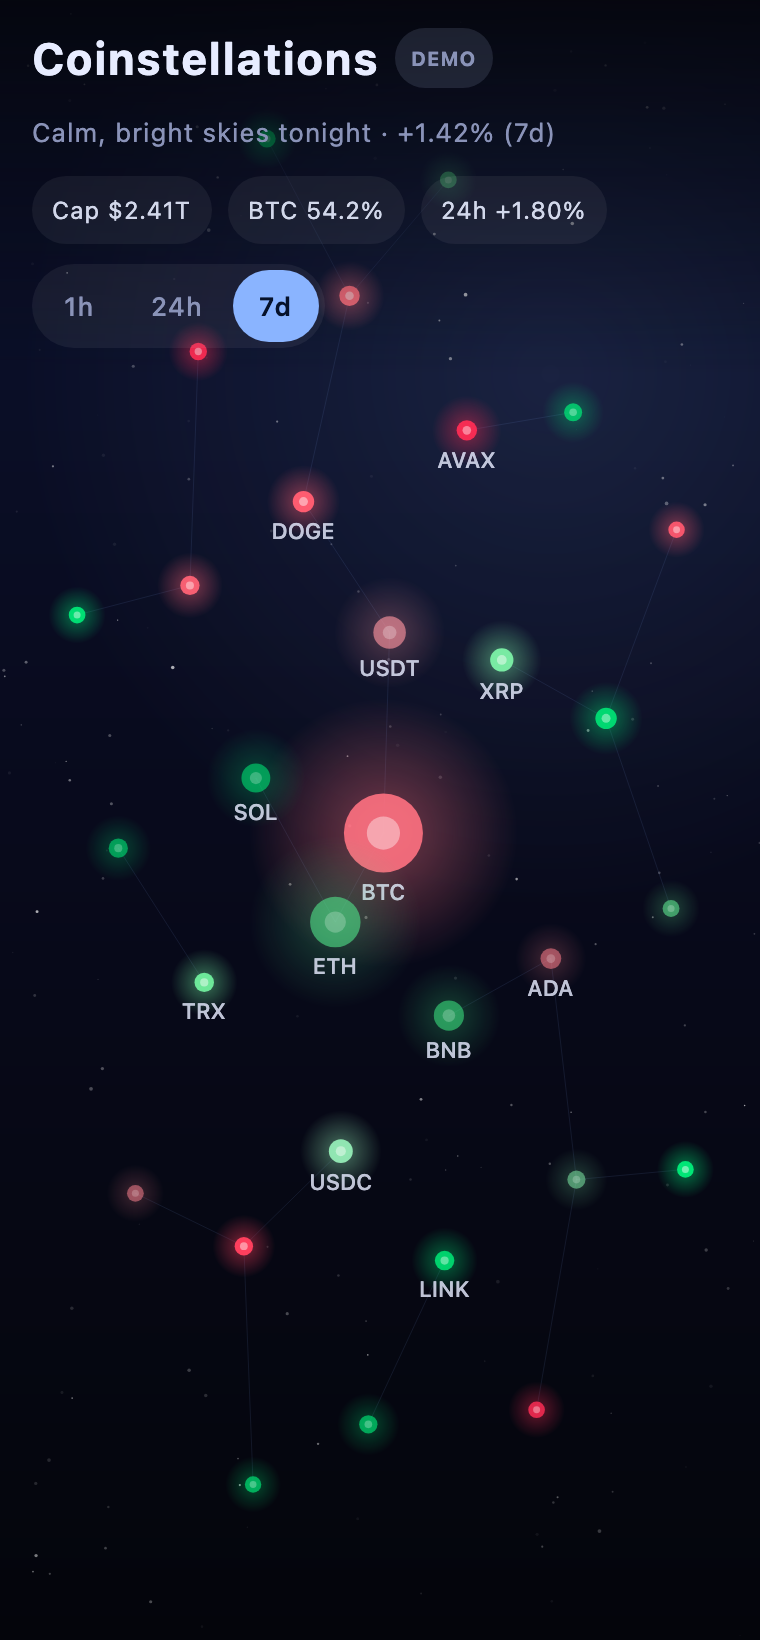
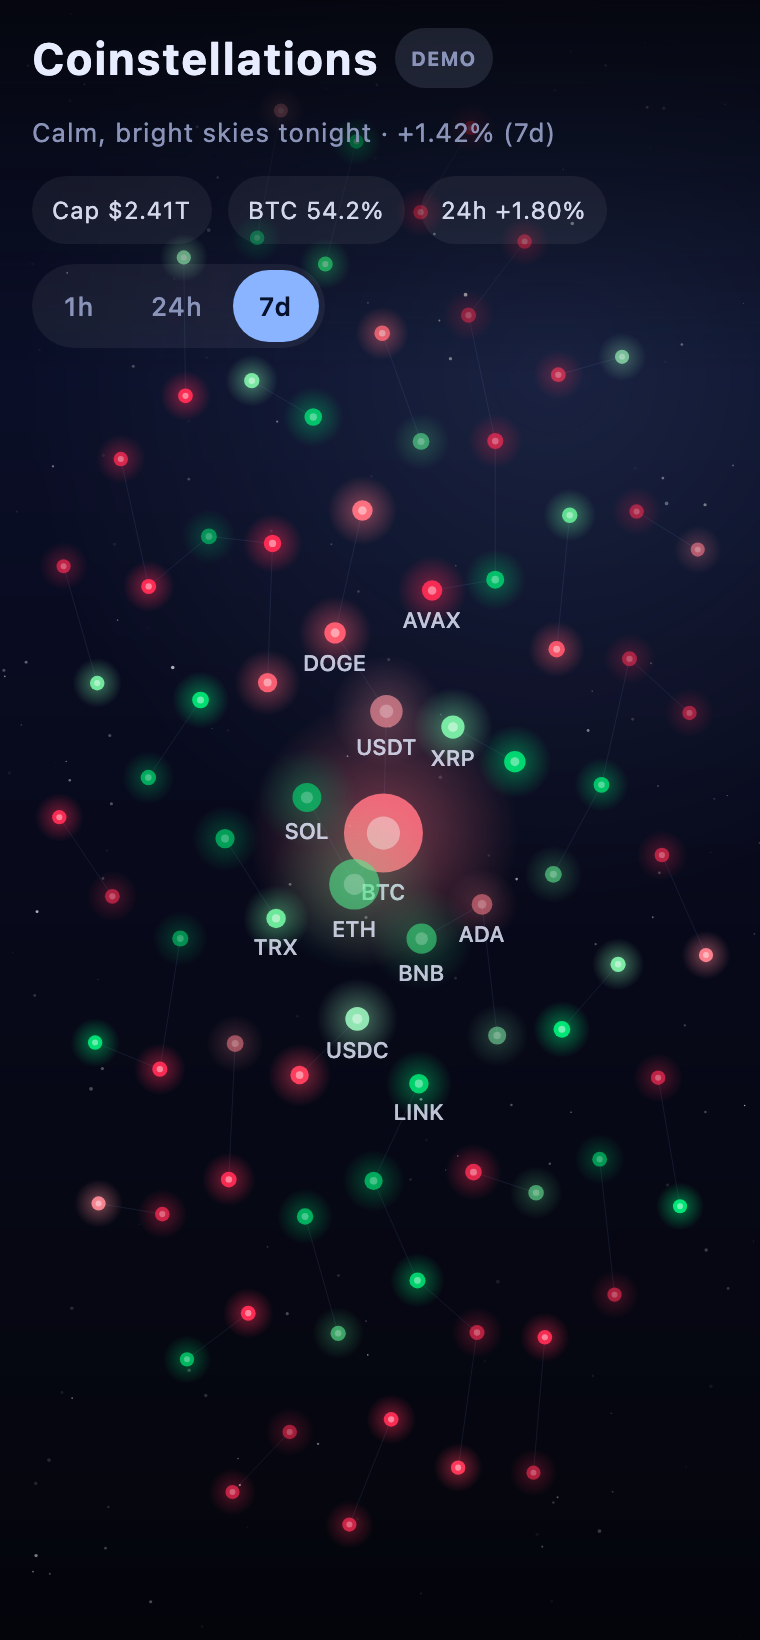
feat: denser sky — ~110 demo coins + default 100 stars
The bundled demo set was only 30 coins, capping the no-key sky at 30 stars.
Adds a recognisable generated long tail (~110 total) and raises the default
star count to 100. Regenerated README visuals.

diff --git a/composeApp/src/commonMain/kotlin/io/github/vahan16/coinstellations/data/DemoData.kt b/composeApp/src/commonMain/kotlin/io/github/vahan16/coinstellations/data/DemoData.kt
@@ -1,6 +1,7 @@
 package io.github.vahan16.coinstellations.data
 
 import kotlin.math.max
+import kotlin.math.pow
 import kotlin.random.Random
 
 /**
@@ -31,7 +32,7 @@ object DemoData {
         websiteUrl = web, twitterUrl = twitter,
     )
 
-    val coins: List<Coin> = listOf(
+    private val topCoins: List<Coin> = listOf(
         c("bitcoin", "Bitcoin", "BTC", 1, 68120.0, 1_345_000_000_000.0, 32_400_000_000.0, 19.74e6, 21e6, 0.12, 1.42, -2.10, "https://bitcoin.org", "https://twitter.com/bitcoin"),
         c("ethereum", "Ethereum", "ETH", 2, 3552.0, 427_000_000_000.0, 16_800_000_000.0, 120.2e6, 120.2e6, 0.20, 2.05, 3.40, "https://ethereum.org", "https://twitter.com/ethereum"),
         c("tether", "Tether", "USDT", 3, 1.0, 112_000_000_000.0, 48_000_000_000.0, 112e9, 112e9, 0.00, 0.01, -0.02),
@@ -63,6 +64,54 @@ object DemoData {
         c("pepe", "Pepe", "PEPE", 29, 0.0000118, 4_900_000_000.0, 1_500_000_000.0, 415e12, 421e12, 2.10, 18.30, 27.50),
         c("render-token", "Render", "RNDR", 30, 7.4, 2_900_000_000.0, 170_000_000.0, 388e6, 531e6, 0.65, -4.10, 9.80),
     )
+
+    /** A recognisable long tail so the demo sky is dense even without an API key. */
+    private val extraDefs: List<Pair<String, String>> = listOf(
+        "Sui" to "SUI", "Sei" to "SEI", "Aave" to "AAVE", "Maker" to "MKR", "Lido DAO" to "LDO",
+        "THORChain" to "RUNE", "Algorand" to "ALGO", "Fantom" to "FTM", "Flow" to "FLOW", "MultiversX" to "EGLD",
+        "Tezos" to "XTZ", "Theta" to "THETA", "Axie Infinity" to "AXS", "The Sandbox" to "SAND", "Decentraland" to "MANA",
+        "Chiliz" to "CHZ", "Gala" to "GALA", "Enjin" to "ENJ", "Curve DAO" to "CRV", "Synthetix" to "SNX",
+        "Compound" to "COMP", "dYdX" to "DYDX", "Kava" to "KAVA", "Zcash" to "ZEC", "Dash" to "DASH",
+        "EOS" to "EOS", "Neo" to "NEO", "IOTA" to "IOTA", "Kusama" to "KSM", "PancakeSwap" to "CAKE",
+        "1inch" to "1INCH", "Basic Attention" to "BAT", "Zilliqa" to "ZIL", "Quant" to "QNT", "Fetch.ai" to "FET",
+        "The Graph" to "GRT", "Immutable" to "IMX", "Worldcoin" to "WLD", "Jupiter" to "JUP", "Pyth Network" to "PYTH",
+        "Celestia" to "TIA", "Stacks" to "STX", "Ordinals" to "ORDI", "Bonk" to "BONK", "dogwifhat" to "WIF",
+        "Floki" to "FLOKI", "STEPN" to "GMT", "ApeCoin" to "APE", "Loopring" to "LRC", "Oasis" to "ROSE",
+        "Mina" to "MINA", "Arweave" to "AR", "Helium" to "HNT", "Conflux" to "CFX", "Kaspa" to "KAS",
+        "Nexo" to "NEXO", "Gnosis" to "GNO", "Pendle" to "PENDLE", "Jito" to "JTO", "Blur" to "BLUR",
+        "Ethereum Name Service" to "ENS", "Mask Network" to "MASK", "WOO" to "WOO", "Moonbeam" to "GLMR", "Astar" to "ASTR",
+        "Osmosis" to "OSMO", "Celo" to "CELO", "Ankr" to "ANKR", "Audius" to "AUDIO", "Band Protocol" to "BAND",
+        "Ocean Protocol" to "OCEAN", "Frax Share" to "FXS", "Rocket Pool" to "RPL", "Ondo" to "ONDO", "ether.fi" to "ETHFI",
+        "Starknet" to "STRK", "Manta Network" to "MANTA", "Dymension" to "DYM", "Wormhole" to "W", "Ethena" to "ENA",
+        "Omni Network" to "OMNI", "Saga" to "SAGA", "Bittensor" to "TAO", "Akash" to "AKT", "SafePal" to "SFP",
+    )
+
+    private fun extras(): List<Coin> {
+        var mc = 2_050_000_000.0
+        return extraDefs.mapIndexed { i, (name, sym) ->
+            val rnd = Random(sym.hashCode().toLong() xor 0x5DEECE66DL)
+            mc *= 0.90 + rnd.nextDouble() * 0.075 // gently decreasing market cap
+            val price = 10.0.pow(rnd.nextInt(-4, 3)) * (1.0 + rnd.nextDouble() * 8.0)
+            val avail = (mc / price).coerceAtLeast(1.0)
+            Coin(
+                id = sym.lowercase(),
+                name = name,
+                symbol = sym,
+                rank = 30 + i + 1,
+                price = price,
+                marketCap = mc,
+                volume = mc * (0.02 + rnd.nextDouble() * 0.18),
+                availableSupply = avail,
+                totalSupply = avail * (1.0 + rnd.nextDouble() * 1.4),
+                priceChange1h = (rnd.nextDouble() - 0.5) * 3.0,
+                priceChange1d = (rnd.nextDouble() - 0.46) * 15.0,
+                priceChange1w = (rnd.nextDouble() - 0.46) * 30.0,
+            )
+        }
+    }
+
+    /** Curated majors + a generated long tail — ~110 coins so the sky is full. */
+    val coins: List<Coin> = topCoins + extras()
 
     /** Deterministic synthetic price history for the detail chart in demo mode. */
     fun chart(coin: Coin, period: String): List<ChartPoint> {

diff --git a/composeApp/src/desktopTest/kotlin/io/github/vahan16/coinstellations/ScreenshotGen.kt b/composeApp/src/desktopTest/kotlin/io/github/vahan16/coinstellations/ScreenshotGen.kt
@@ -51,10 +51,10 @@ class ScreenshotGen {
             .also { it.mkdirs() }
 
     @Composable
-    private fun Scene(timeframe: Timeframe, withHeader: Boolean) {
+    private fun Scene(timeframe: Timeframe, withHeader: Boolean, count: Int) {
         AppTheme {
             Box(Modifier.fillMaxSize().background(SpaceBottom)) {
-                SkyView(DemoData.coins.take(60), timeframe, Modifier.fillMaxSize()) {}
+                SkyView(DemoData.coins.take(count), timeframe, Modifier.fillMaxSize()) {}
                 if (withHeader) {
                     Column(
                         Modifier.fillMaxWidth()
@@ -109,16 +109,16 @@ class ScreenshotGen {
         if (System.getenv("SCREENSHOT_DIR").isNullOrBlank()) return
 
         // --- Static stills: render a short sequence, keep a settled frame ---
-        val hero = frames(1600, 1000, 2f, 26, 50) { Scene(Timeframe.DAY, withHeader = true) }
+        val hero = frames(1600, 1000, 2f, 26, 50) { Scene(Timeframe.DAY, withHeader = true, count = 100) }
         File(outDir, "hero.png").writeBytes(hero.last())
         println("wrote ${outDir.resolve("hero.png")} (${hero.last().size / 1024} KB)")
 
-        val mobile = frames(760, 1640, 2f, 26, 50) { Scene(Timeframe.WEEK, withHeader = true) }
+        val mobile = frames(760, 1640, 2f, 26, 50) { Scene(Timeframe.WEEK, withHeader = true, count = 85) }
         File(outDir, "mobile.png").writeBytes(mobile.last())
         println("wrote ${outDir.resolve("mobile.png")} (${mobile.last().size / 1024} KB)")
 
         // --- Animated GIF of the living sky (twinkle + a shooting star) ---
-        val gifFrames = frames(640, 380, 1.5f, 44, 60) { Scene(Timeframe.DAY, withHeader = false) }
+        val gifFrames = frames(640, 380, 1.5f, 44, 60) { Scene(Timeframe.DAY, withHeader = false, count = 75) }
         writeGif(File(outDir, "demo.gif"), gifFrames, delayMs = 60)
         println("wrote ${outDir.resolve("demo.gif")} (${File(outDir, "demo.gif").length() / 1024} KB)")
     }

diff --git a/composeApp/src/commonMain/kotlin/io/github/vahan16/coinstellations/MarketStore.kt b/composeApp/src/commonMain/kotlin/io/github/vahan16/coinstellations/MarketStore.kt
@@ -40,7 +40,7 @@ data class SkyState(
     val timeframe: Timeframe = Timeframe.DAY,
     val query: String = "",
     val currency: String = "USD",
-    val starCount: Int = 50,
+    val starCount: Int = 100,
     val selected: Coin? = null,
     val chart: ChartState = ChartState(),
     val hasApiKey: Boolean = false,

diff --git a/composeApp/src/commonMain/kotlin/io/github/vahan16/coinstellations/data/AppSettings.kt b/composeApp/src/commonMain/kotlin/io/github/vahan16/coinstellations/data/AppSettings.kt
@@ -21,7 +21,7 @@ class AppSettings(private val settings: Settings = Settings()) {
         set(value) = settings.putString(KEY_CURRENCY, value)
 
     var bubbleCount: Int
-        get() = settings.getInt(KEY_COUNT, 50)
+        get() = settings.getInt(KEY_COUNT, 100)
         set(value) = settings.putInt(KEY_COUNT, value)
 
     val hasApiKey: Boolean get() = apiKey != null